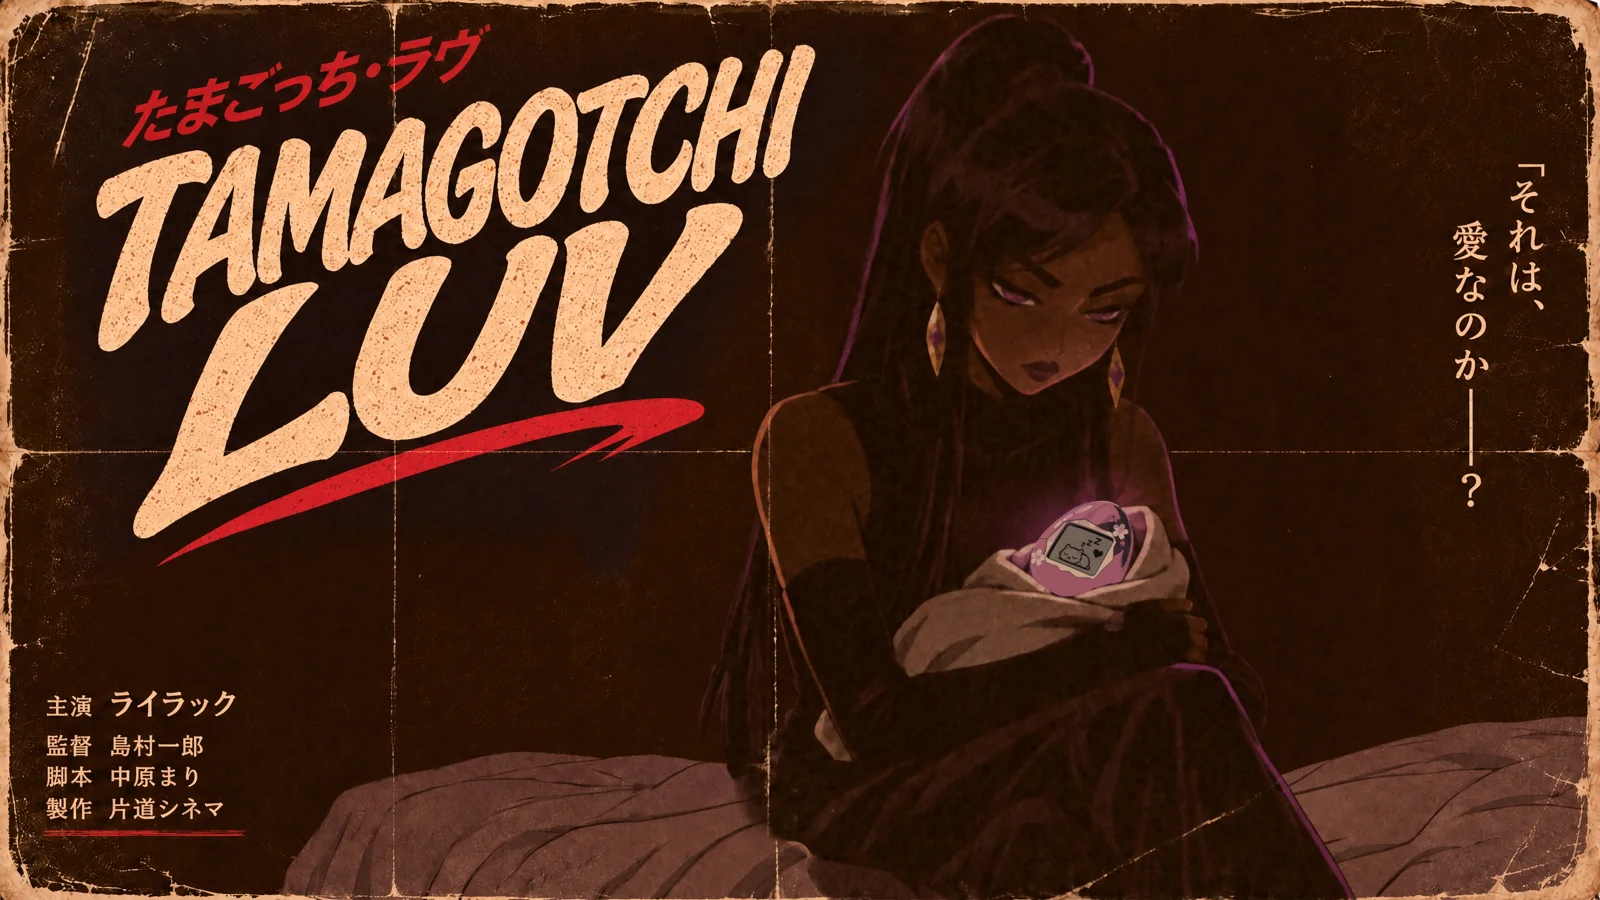
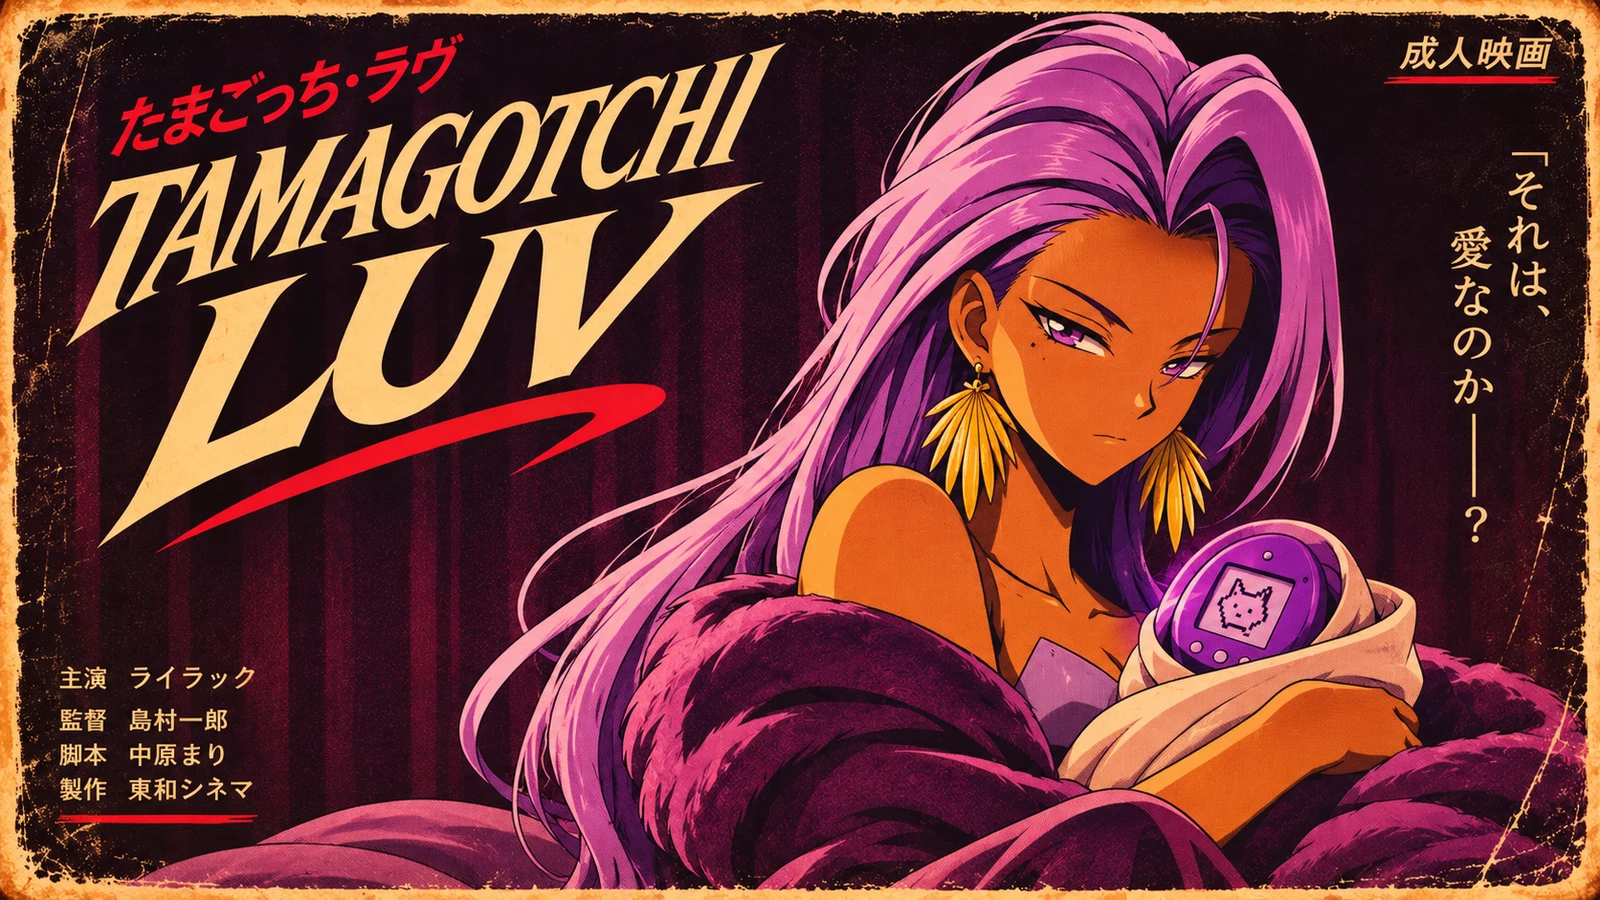
New Tamagotchi Luv artwork
Claude-Session: https://claude.ai/code/session_013w5yMdZKv437No8p47gv7E

diff --git a/okinawa/lyrics.html b/okinawa/lyrics.html
@@ -59,7 +59,7 @@ a:focus-visible{outline:2px solid #1e7f76;outline-offset:3px}
 </head><body id="top">
 <header class="bar"><a href="./">← Album</a><span class="t">Lyrics</span><a href="magazine.html">In-flight magazine</a></header>
 <section class="hero"><div class="kick">LAY-L · Okinawa… One Way.. · 歌詞</div><h1>Lyrics</h1><p class="sub" lang="ja">沖縄…片道… 全チャンネルの歌詞</p></section>
-<nav class="chips" aria-label="Channels"><a href="#ch01" class="chip"><img src="sq-01.webp?v=3" alt="" loading="lazy"><b>01</b></a><a href="#ch02" class="chip"><img src="sq-02.webp?v=3" alt="" loading="lazy"><b>02</b></a><a href="#ch03" class="chip"><img src="sq-03.webp?v=3" alt="" loading="lazy"><b>03</b></a><a href="#ch04" class="chip"><img src="sq-07.webp?v=3" alt="" loading="lazy"><b>04</b></a><a href="#ch05" class="chip"><img src="sq-14.webp?v=2" alt="" loading="lazy"><b>05</b></a><a href="#ch06" class="chip"><img src="sq-04.webp?v=3" alt="" loading="lazy"><b>06</b></a><a href="#ch07" class="chip"><img src="sq-05.webp?v=3" alt="" loading="lazy"><b>07</b></a><a href="#ch08" class="chip"><img src="sq-11.webp?v=3" alt="" loading="lazy"><b>08</b></a><a href="#ch09" class="chip"><img src="sq-13.webp?v=3" alt="" loading="lazy"><b>09</b></a><a href="#ch10" class="chip"><img src="sq-06.webp?v=4" alt="" loading="lazy"><b>10</b></a><a href="#ch11" class="chip"><img src="sq-10.webp?v=3" alt="" loading="lazy"><b>11</b></a><a href="#ch12" class="chip"><img src="sq-08.webp?v=3" alt="" loading="lazy"><b>12</b></a><a href="#ch13" class="chip"><img src="sq-09.webp?v=3" alt="" loading="lazy"><b>13</b></a><a href="#ch14" class="chip"><img src="sq-12.webp?v=3" alt="" loading="lazy"><b>14</b></a></nav>
+<nav class="chips" aria-label="Channels"><a href="#ch01" class="chip"><img src="sq-01.webp?v=3" alt="" loading="lazy"><b>01</b></a><a href="#ch02" class="chip"><img src="sq-02.webp?v=3" alt="" loading="lazy"><b>02</b></a><a href="#ch03" class="chip"><img src="sq-03.webp?v=3" alt="" loading="lazy"><b>03</b></a><a href="#ch04" class="chip"><img src="sq-07.webp?v=3" alt="" loading="lazy"><b>04</b></a><a href="#ch05" class="chip"><img src="sq-14.webp?v=2" alt="" loading="lazy"><b>05</b></a><a href="#ch06" class="chip"><img src="sq-04.webp?v=3" alt="" loading="lazy"><b>06</b></a><a href="#ch07" class="chip"><img src="sq-05.webp?v=3" alt="" loading="lazy"><b>07</b></a><a href="#ch08" class="chip"><img src="sq-11.webp?v=3" alt="" loading="lazy"><b>08</b></a><a href="#ch09" class="chip"><img src="sq-13.webp?v=3" alt="" loading="lazy"><b>09</b></a><a href="#ch10" class="chip"><img src="sq-06.webp?v=4" alt="" loading="lazy"><b>10</b></a><a href="#ch11" class="chip"><img src="sq-10.webp?v=3" alt="" loading="lazy"><b>11</b></a><a href="#ch12" class="chip"><img src="sq-08.webp?v=3" alt="" loading="lazy"><b>12</b></a><a href="#ch13" class="chip"><img src="sq-09.webp?v=4" alt="" loading="lazy"><b>13</b></a><a href="#ch14" class="chip"><img src="sq-12.webp?v=3" alt="" loading="lazy"><b>14</b></a></nav>
 <article id="ch01" class="song"><div class="side"><img src="sq-01.webp?v=3" alt="One Missed Call.. Two… cover" loading="lazy">
 <a class="play" href="./?play=0">▶ Play channel 01</a></div>
 <div class="txt"><div class="kick">Channel 01</div><h2>One Missed Call.. Two…</h2><div class="ja" lang="ja">不在着信… 一件… 二件…</div><div class="ly"><span>One missed call.</span><span>Two missed calls.</span><span>Three?</span><span>I’m Still starting here, and you peaked</span><span>Some on your mind dear, just speak</span><span>I see you have fear and you reek</span><span>Your hate is clear towards my technique</span><span>Ring-ring, what a shame</span><span>When the roles were switched I wasn’t that lame</span><span>Tick-tock, running late</span><span>You still don’t know how to play the game</span><span>They look at me like I’m a freak</span><span>All artists are, guess you’re not what you seek</span><span>Therapy sessions, since you peaked</span><span>you’re gonna need them, Bout to get bleak</span><span>Ring-ring, what a shame</span><span>When the roles were switched I wasn’t that lame</span><span>Tick-tock, running late</span><span>You still don’t know how to play the game</span><span>You wanted a reaction</span><span>So you wrote one for me</span><span>Put some words in my mouth</span><span>Then called it honesty</span><span>Ring-ring, what a shame</span><span>When the roles were switched I wasn’t that lame</span><span>Tick-tock, running late</span><span>You still don’t know how to play the game</span></div><a class="top" href="#top">Back to channels ↑</a></div></article><article id="ch02" class="song"><div class="side"><img src="sq-02.webp?v=3" alt="Sakura cover" loading="lazy">
@@ -84,7 +84,7 @@ a:focus-visible{outline:2px solid #1e7f76;outline-offset:3px}
 <a class="play" href="./?play=10">▶ Play channel 11</a></div>
 <div class="txt"><div class="kick">Channel 11</div><h2>Refrigerator</h2><div class="ja" lang="ja">冷蔵庫</div><div class="ly"><span>Me no like you</span><span>Me no like when she</span><span>Come she like you</span><span>Like you she</span><span>Close to your mama</span><span>Close to your dada</span><span>Close to your nana</span><span>Close to your head?</span><span>You like winter, cold like refrigerator</span><span>My bag is alligator</span><span>You no like</span><span>You hater</span><span>Down up down elevator</span><span>Better better better better</span><span>Down up down elevator</span><span>Better better better better</span><span>I don’t want pizza</span><span>I want visa</span><span>Green card green green</span><span>Go to Ibiza</span><span>Me no like you</span><span>Me no like when she</span><span>Come she like you</span><span>Like you she</span><span>Close to your phone</span><span>Close to your zone</span><span>Ice cream cone</span><span>I smell her cologne</span><span>You like winter, cold like refrigerator</span><span>My bag is alligator</span><span>You no like</span><span>You hater</span><span>Down up down elevator</span><span>Better better better better</span><span>Down up down elevator</span><span>Better better better better</span><span>You have Wi-Fi</span><span>Me have password</span><span>Me meet guy</span><span>Guy is your younger brother</span><span>He more nice!</span><span>Now me!</span><span>Close to your mama</span><span>Close to your dada</span><span>Close to your nana</span><span>Will cut your head!</span><span>You like winter, cold like refrigerator</span><span>My bag is alligator</span><span>You no like</span><span>You hater</span><span>Down up down elevator</span><span>Better better better better</span><span>Down up down elevator</span><span>Better better better better</span><span>You like winter, cold like refrigerator</span><span>My bag is alligator</span><span>You no like</span><span>You hater</span><span>Down up down elevator</span><span>Better better better better</span><span>Down up down elevator</span><span>Better better better better</span><span>You like winter, cold like refrigerator</span><span>My bag is alligator</span><span>You no like</span><span>You hater</span><span>Down up down elevator</span><span>Better better better better</span><span>Down up down elevator</span><span>Better better better better</span><span>You now broken refrigerator.</span></div><a class="top" href="#top">Back to channels ↑</a></div></article><article id="ch12" class="song"><div class="side"><img src="sq-08.webp?v=3" alt="The Wind Called In Sick cover" loading="lazy">
 <a class="play" href="./?play=11">▶ Play channel 12</a></div>
-<div class="txt"><div class="kick">Channel 12</div><h2>The Wind Called In Sick</h2><div class="ja" lang="ja">風邪</div><div class="ly"><span>No wind across the square</span><span>A window open wide</span><span>Someone was singing upstairs</span><span>And missed the final line</span><span>I know that song</span><span>Or thought I did</span><span>It comes to me in pieces</span><span>And leaves before it ends</span><span>At dusk the curtains stirred</span><span>The window closed at eight</span><span>I tried to sing it walking home</span><span>And got the ending wrong</span><span>I know that song</span><span>Or thought I did</span><span>It comes to me in pieces</span><span>And leaves before it ends</span></div><a class="top" href="#top">Back to channels ↑</a></div></article><article id="ch13" class="song"><div class="side"><img src="sq-09.webp?v=3" alt="Tamagotchi Luv (Bonus Track) cover" loading="lazy">
+<div class="txt"><div class="kick">Channel 12</div><h2>The Wind Called In Sick</h2><div class="ja" lang="ja">風邪</div><div class="ly"><span>No wind across the square</span><span>A window open wide</span><span>Someone was singing upstairs</span><span>And missed the final line</span><span>I know that song</span><span>Or thought I did</span><span>It comes to me in pieces</span><span>And leaves before it ends</span><span>At dusk the curtains stirred</span><span>The window closed at eight</span><span>I tried to sing it walking home</span><span>And got the ending wrong</span><span>I know that song</span><span>Or thought I did</span><span>It comes to me in pieces</span><span>And leaves before it ends</span></div><a class="top" href="#top">Back to channels ↑</a></div></article><article id="ch13" class="song"><div class="side"><img src="sq-09.webp?v=4" alt="Tamagotchi Luv (Bonus Track) cover" loading="lazy">
 <a class="play" href="./?play=12">▶ Play channel 13</a></div>
 <div class="txt"><div class="kick">Channel 13</div><h2>Tamagotchi Luv (Bonus Track)</h2><div class="ja" lang="ja">たまごっち・ラヴ</div><div class="ly"><span>Tamagotchi in my pocket like a kid I never got</span><span>Feed it when I&#x27;m lonely, let it fade when I forgot</span><span>Little digital devotion, blinking needy in the dark</span><span>I can keep a thing alive if it don&#x27;t got too much heart</span><span>Tiny baby on a screen, quiet mouth, no real cry</span><span>Only needs me when it flashes, never asks me why</span><span>I can love it in installments, I can hold it at a cost</span><span>Tamagotchi in my pocket like a life I never lost</span><span>I do better with the distance</span><span>Better when it stays light</span><span>Soon as something turns human</span><span>I go missing every time</span><span>Love me soft, I can fake it</span><span>Love me real, I might run</span><span>I can handle almost having</span><span>I&#x27;m no good at being the one</span><span>You call it love but it&#x27;s luv with a u</span><span>You can&#x27;t call it love when it&#x27;s only you</span><span>Only showin&#x27; up when you want somethin&#x27; new</span><span>Baby that ain&#x27;t love, that&#x27;s luv with a u</span><span>You were louder than a siren, you were flesh and attitude</span><span>Wanted mother, wanted lover, wanted blood and wanted proof</span><span>I was good at imitation, bad at giving what was real</span><span>So I kept a softer creature with a programmed way to feel</span><span>Now you hit me after midnight like you got somethin&#x27; to lose</span><span>Say my name like it&#x27;s sacred, then do what you always do</span><span>Funny how you want affection when it fits your point of view</span><span>That&#x27;s when I see the difference between real and something used</span><span>I like love until it needs me</span><span>Till it asks me to stay still</span><span>Till it wants more than a moment</span><span>More than ache, more than thrill</span><span>I can hold what isn&#x27;t heavy</span><span>I can keep what doesn&#x27;t see</span><span>All the parts of me I buried</span><span>All the things that came from me</span><span>You call it love but it&#x27;s luv with a u</span><span>You can&#x27;t call it love when it&#x27;s only you</span><span>Only showin&#x27; up when you want somethin&#x27; new</span><span>Baby that ain&#x27;t love, that&#x27;s luv with a u</span><span>Maybe I was made for almost</span><span>Maybe you were made to use</span><span>Maybe we were never callin&#x27;</span><span>The same thing by the truth</span><span>You want closeness without weight to it</span><span>Want my body, not the bruise</span><span>Want the shape of something tender</span><span>But not what real love makes you do</span><span>You call it love but it&#x27;s luv with a u</span><span>You can&#x27;t call it love when it&#x27;s only you</span><span>Only showin&#x27; up when you want somethin&#x27; new</span><span>Baby that ain&#x27;t love, that&#x27;s luv with a u</span></div><a class="top" href="#top">Back to channels ↑</a></div></article><article id="ch14" class="song"><div class="side"><img src="sq-12.webp?v=3" alt="Voodoo Doll (Bonus Track) cover" loading="lazy">
 <a class="play" href="./?play=13">▶ Play channel 14</a></div>

diff --git a/okinawa/index.html b/okinawa/index.html
@@ -628,7 +628,7 @@ if (window.LAYL_CONFIG.goatcounter){ var gs = document.createElement("script"); 
     {id:"LYL 010", title:"ASMR STIMULATION", name:"ASMR Stimulation", src:"asmr-stimulation.mp4", art:"art-06.webp?v=4", kanji:"囁き", gate:"10", seat:"10A", from:"Headphones on"},
     {id:"LYL 011", title:"REFRIGERATOR", name:"Refrigerator", src:"refrigerator.mp4", art:"art-10.webp?v=3", kanji:"冷蔵庫", gate:"11", seat:"11R", from:"Cold front"},
     {id:"LYL 012", title:"THE WIND CALLED IN SICK", name:"The Wind Called In Sick", src:"the-wind-called-in-sick.mp4", art:"art-08.webp?v=3", kanji:"風", gate:"12", seat:"12A", from:"Final call"},
-    {id:"LYL 013", title:"TAMAGOTCHI LUV (BONUS TRACK)", name:"Tamagotchi Luv (Bonus Track)", src:"tamagotchi-luv.mp4", art:"art-09.webp?v=3", kanji:"愛", gate:"13", seat:"13X", from:"Bonus flight", bonus:true},
+    {id:"LYL 013", title:"TAMAGOTCHI LUV (BONUS TRACK)", name:"Tamagotchi Luv (Bonus Track)", src:"tamagotchi-luv.mp4", art:"art-09.webp?v=4", kanji:"愛", gate:"13", seat:"13X", from:"Bonus flight", bonus:true},
     {id:"LYL 014", title:"VOODOO DOLL (BONUS TRACK)", name:"Voodoo Doll (Bonus Track)", src:"voodoo-doll.mp4", art:"art-12.webp?v=3", kanji:"藁人形", gate:"14", seat:"14V", from:"Bonus flight", bonus:true}
   ];
   var TBA = {};
